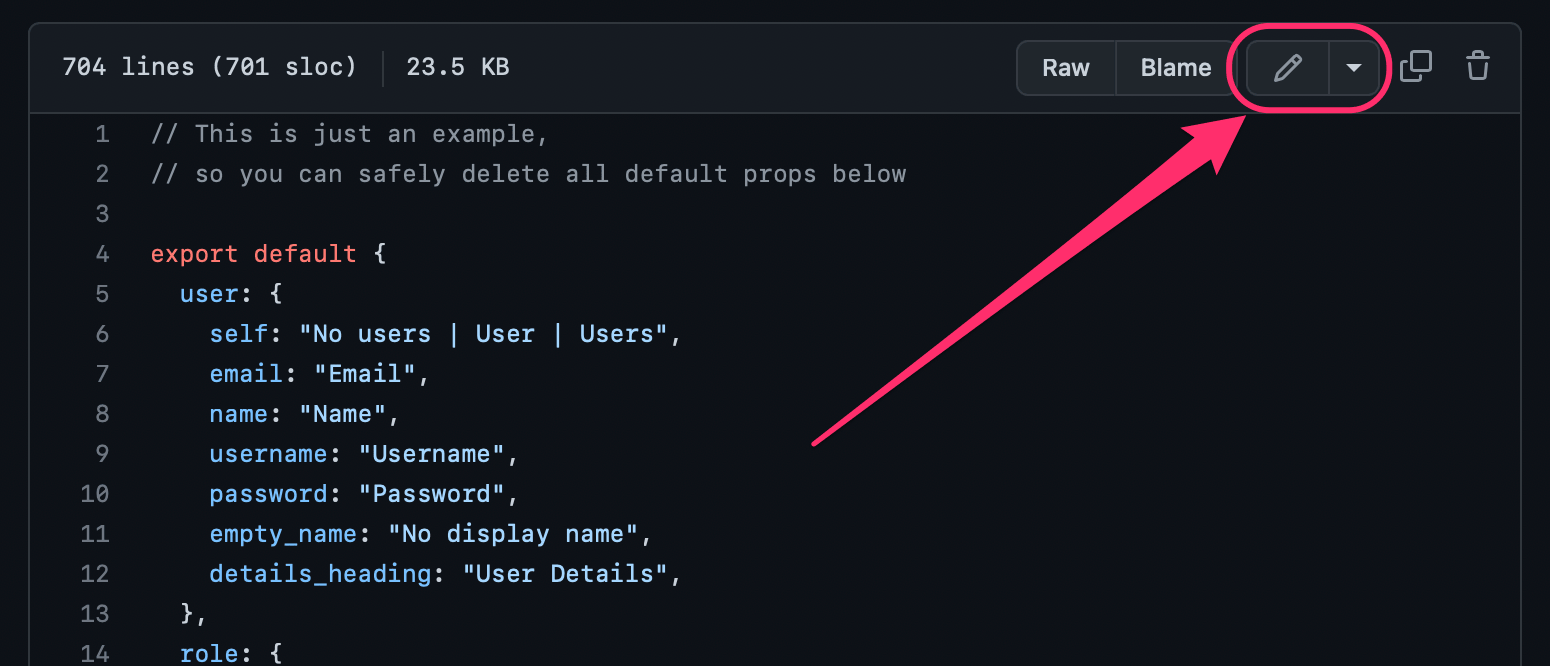
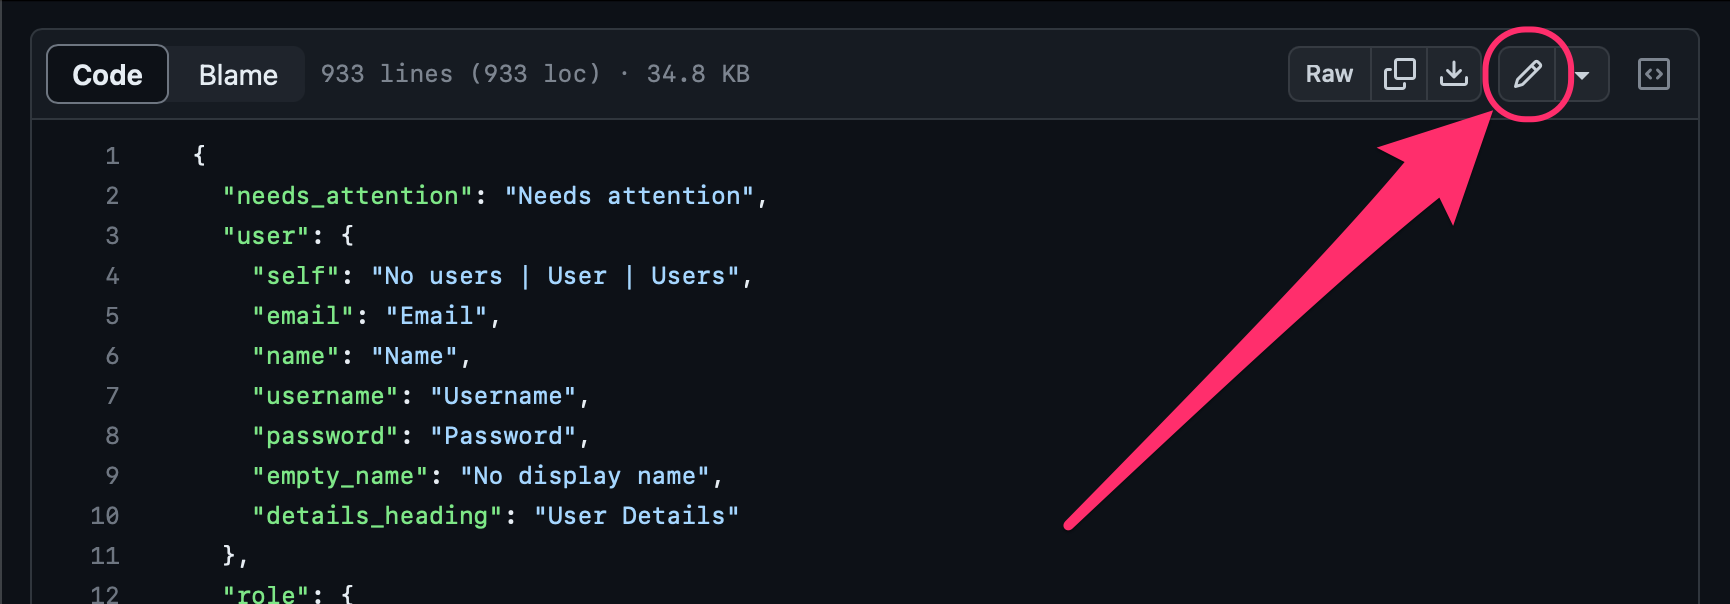
feat: Improve documentation on copyediting

diff --git a/docs/.vuepress/config.js b/docs/.vuepress/config.js
@@ -50,7 +50,7 @@ module.exports = {
                 {
                     title: "Contributing",
                     sidebarDepth: 2,
-                    children: ["", "architecture", "testing", "i18n", "documentation", "wsl"]
+                    children: ["", "architecture", "testing", "copyediting", "documentation", "wsl"]
                 }
             ]
         }

diff --git a/docs/contributing/copyediting.md b/docs/contributing/copyediting.md
@@ -1,0 +1,66 @@
+# Copyediting & Translation
+
+Text (copy) that is present throghout Pilcrow is internationalized using [vue-i18n package](https://vue-i18n.intlify.dev/).  All translatable copy in the application is located in [`/client/src/i18n` on the GitHub repository](https://github.com/MESH-Research/Pilcrow/tree/master/client/src/i18n).
+
+## Contributing
+
+If you are interested in contributing translations, [please reach out to the team via GitHub](https://github.com/MESH-Research/Pilcrow/discussions).
+
+### English (en-US)
+
+If you have a GitHub account with writing access to [the GitHub repository](https://github.com/MESH-Research/Pilcrow), you may directly update the American English file (`en-US.json`) by following the instructions below. Otherwise, you can reach out to the [project team](README.md#team-members) to request writing access.
+
+1. Visit the translation file on GitHub located at [client/src/i18n/en-US.json](https://github.com/MESH-Research/Pilcrow/blob/master/client/src/i18n/en-US.json).
+2. Click the "Edit this file" button in the upper-right of the page.
+
+      <img alt="Screenshot of the Edit this file button on GitHub appearing after the 'Raw' buttons and before the 'Open symbols panel' button" src="./images/edit_button_location.png" style="width:400px">
+
+3. Make your modifications directly to the translation text within the browser. Use the instructions for [screenshots](/contributing/copyediting.md#screenshots) below for assistance.
+4. Once finished, click the "Commit changes" button in the upper-right of the page.
+
+      <img alt="Screenshot of the green Commit changes button on GitHub" src="./images/commit_changes_button.png" style="width:400px">
+
+5. A "Propose changes" dialog will appear. In the "Commit message" text input, replace the "Update en-US.json" placeholder with: `feat: Update en-US.json`.
+
+      <img alt="Screenshot of the Propose changes dialog on GitHub showing the text input for the title and text area for the description" src="./images/propose_changes_button.png" style="width:400px">
+
+    - Optionally, add a description of your changes to the "Extended description" textarea beneath this text input.
+6. Click the "Propose changes" button.
+7. Click the "Create pull request" button.
+
+      <img alt="Screenshot of the Create pull request button on GitHub" src="./images/create_pull_request_button.png" style="width:400px">
+
+8. Done.
+    - The development team will coordinate with you further to merge your changes and officially update the application's text.
+
+If you need help, [please reach out to the team](https://github.com/MESH-Research/Pilcrow/discussions) for assistance.
+
+## Translation Tools
+
+### Screenshots
+
+The automated testing tools for the application generate two screenshots of each page.  The first displays the page in `en-US` and the second replaces translated text strings with their key names in the translation file to aid in locating the appropriate key to modify for a given text string.
+
+| ![Translated](./images/i18n-copy.png) | ![Keys](./images/i18n-keys.png) |
+| :-----------------------------------: | :-----------------------------: |
+| Translated Page                       | Translation Keys for Page       |
+
+You can download a zip file of these screenshots inside a [recent passing run of the integration test suite](https://github.com/MESH-Research/Pilcrow/actions/workflows/test-e2e.yml). Any workflow run with a green checkmark will do.
+
+<img alt="Screenshot of a green checkmark on GitHub" src="./images/checkmarks.png">
+
+Click on the title of a recent workflow run and look for the `screenshots` artifact at the bottom of the page.
+
+<img alt="Screenshot of the artifact labeled screenshots on GitHub appearing within the Artifacts section at the bottom of the page" src="./images/screenshots_artifact.png" style="width:400px">
+
+Note: Screenshots are only saved for 14 days.
+
+Screenshots are also viewable on Pilcrow's [cypress.io](https://dashboard.cypress.io/projects/omnycq/runs) profile. Click on a recent run and locate the "Copywriting Screenshots > Makes Screenshots" spec.
+
+<img alt="Screenshot of the Test Results section on Cypress showing the Copywriting Screenshots spec" src="./images/cypress_test_results.png" style="width:400px">
+
+Click on that spec and you should find a button for screenshots in the flyout that opens.
+
+### In-Browser Keys
+
+If you are able to access/start a build of the application, you can also switch to the translation keys display mode by pressing `Ctrl+Shift+Alt+T`.  Pressing the key combination again will revert back to `en-US`. This setting will not be saved between page loads, but you can invoke the key combination as often as you need.
